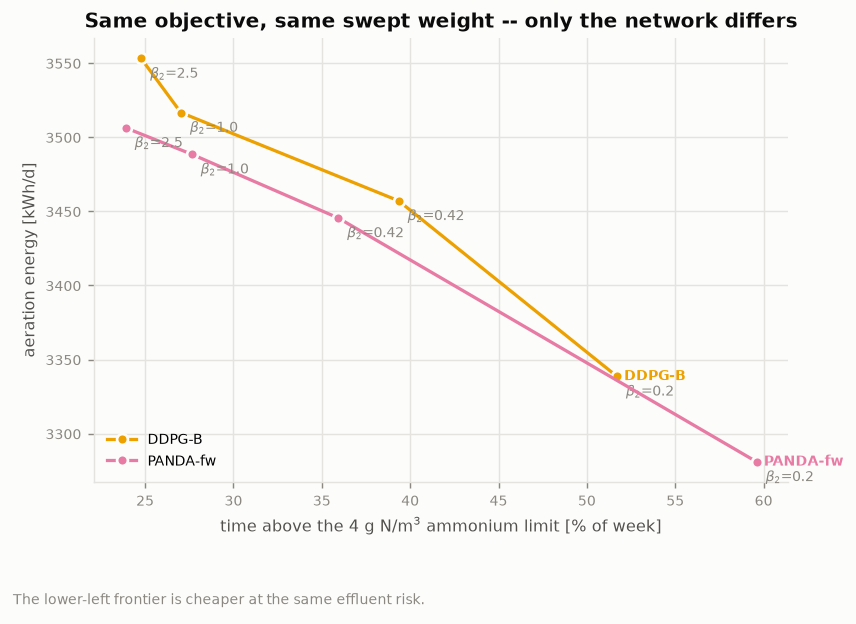
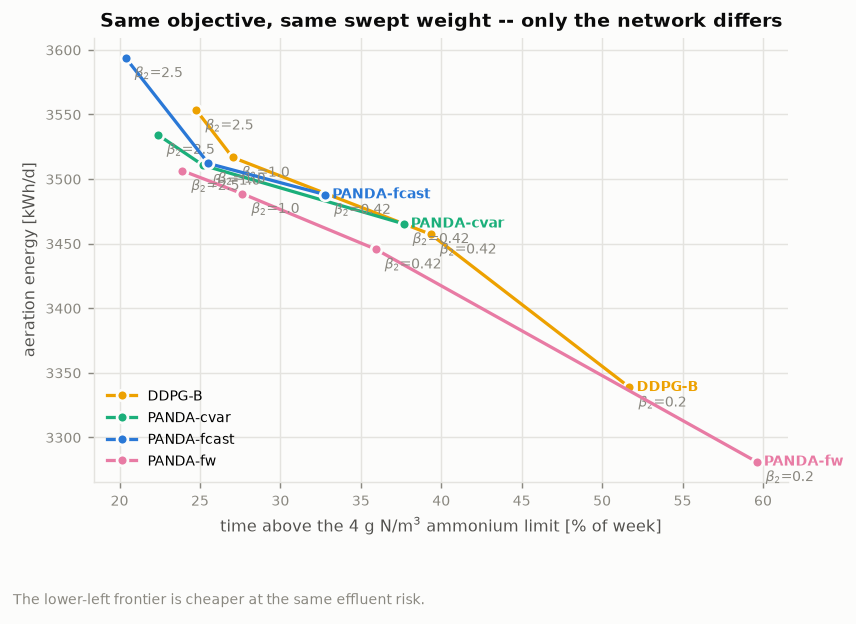
Separate the two network changes: both contribute, neither is redundant
Same objective, same swept weight, single seed. Each arm's Pareto front
measured against DDPG-B's by interpolation at DDPG-B's own violation rates:

  arm           what it adds        mean gap vs DDPG-B   per point
  PANDA-fcast   forecast only       +19 kWh/d            +29, +10
  PANDA-cvar    CVaR only           +26 kWh/d            +39, +13
  PANDA-fw      both                +29 kWh/d            +51, +25, +35, +3

So the combination beats either change on its own. That was the open
question in the verdict table -- PANDA-fw enabled both at once, so the
29 kWh/d could not be attributed. It can now, as far as one seed allows, and
the doc says exactly that.

Generator merges summary_weights_split.json into the weight-sweep section
and the figure draws all four frontiers. Palette re-validated in the drawn
order (worst adjacent CVD dE 9.2, normal-vision 24.0); two of the four sit
below 3:1 on the light surface, so the figure keeps both a legend and direct
end-of-line labels.

Also fixes a NameError in the generator left by the previous refactor -- it
aborted mid-run and left the results doc holding stale content.

Claude-Session: https://claude.ai/code/session_01UHtHFMu7fW5SWicUeqEYtY

diff --git a/experiments/09_write_results.py b/experiments/09_write_results.py
@@ -289,6 +289,12 @@ def main() -> None:
     wpath = Path(args.results) / "summary_weights.json"
     if wpath.exists():
         ws = json.loads(wpath.read_text())
+        # the single-modification arms were swept separately
+        spath = Path(args.results) / "summary_weights_split.json"
+        if spath.exists():
+            seen = {(r["arm"], r["beta2"], r["seed"]) for r in ws}
+            ws += [r for r in json.loads(spath.read_text())
+                   if (r["arm"], r["beta2"], r["seed"]) not in seen]
         out += ["## The network changes, isolated", "",
                 "Both arms use the paper's own reward "
                 "`-(KLa_5/240 + beta2 max(S_NH,e - 4, 0))` with no Lagrange "
@@ -309,29 +315,58 @@ def main() -> None:
         # Compare the frontiers each arm traces instead.
         fronts = {arm: _pareto([r for r in ws if r["arm"] == arm])
                   for arm in sorted({r["arm"] for r in ws})}
-        a_name, b_name = "PANDA-fw", "DDPG-B"
-        fa, fb = fronts.get(a_name, []), fronts.get(b_name, [])
-        if len(fa) >= 2 and len(fb) >= 2:
-            gaps = []
-            for r in fb:
-                here = _interp_ae(fa, r["viol_NH"])
-                if here is not None:
-                    gaps.append(r["AE"] - here)
-            if gaps:
-                mean_gap = float(np.mean(gaps))
-                direction = ("below" if mean_gap > 0 else "above")
-                out += [f"**Comparing the frontiers, not the pairs.** At equal "
-                        f"`beta2` the two arms do not land at the same "
-                        f"violation rate -- they slide to different points on "
-                        f"the same trade-off -- so the pairwise test is not "
-                        f"informative. Taking each arm's Pareto front over the "
-                        f"swept weights and measuring at DDPG-B's own "
-                        f"violation rates, the {a_name} front sits on average "
-                        f"{abs(mean_gap):.0f} kWh/d {direction} the "
-                        f"{b_name} front "
-                        f"({', '.join(f'{g:+.0f}' for g in gaps)} kWh/d at "
-                        f"each point). Positive means {a_name} is cheaper at "
-                        f"the same effluent risk.", ""]
+        b_name = "DDPG-B"
+        fb = fronts.get(b_name, [])
+        labels = {"PANDA-fw": "forecast + CVaR (both)",
+                  "PANDA-fcast": "forecast only",
+                  "PANDA-cvar": "CVaR only"}
+        if len(fb) >= 2:
+            out += ["**Comparing the frontiers, not the pairs.** At equal "
+                    "`beta2` the arms do not land at the same violation rate "
+                    "-- they slide to different points on the same trade-off "
+                    "-- so a pairwise test is not informative. Each arm's "
+                    "Pareto front over the swept weights is measured against "
+                    "`DDPG-B`'s by interpolation at DDPG-B's own violation "
+                    "rates. Positive means cheaper at the same effluent "
+                    "risk.", "",
+                    "| arm | what it adds | mean gap vs DDPG-B | per point |",
+                    "|---|---|---|---|"]
+            for arm in ("PANDA-fw", "PANDA-fcast", "PANDA-cvar"):
+                fa = fronts.get(arm, [])
+                if len(fa) < 2:
+                    continue
+                gaps = [r["AE"] - _interp_ae(fa, r["viol_NH"]) for r in fb
+                        if _interp_ae(fa, r["viol_NH"]) is not None]
+                if not gaps:
+                    continue
+                out.append(
+                    f"| `{arm}` | {labels.get(arm, '')} | "
+                    f"{np.mean(gaps):+.0f} kWh/d | "
+                    f"{', '.join(f'{g:+.0f}' for g in gaps)} |")
+            out.append("")
+            # which modification carries it?
+            g = {}
+            for arm in ("PANDA-fw", "PANDA-fcast", "PANDA-cvar"):
+                fa = fronts.get(arm, [])
+                vals = [r["AE"] - _interp_ae(fa, r["viol_NH"]) for r in fb
+                        if len(fa) >= 2 and _interp_ae(fa, r["viol_NH"]) is not None]
+                if vals:
+                    g[arm] = float(np.mean(vals))
+            if len(g) == 3:
+                best = max(g, key=g.get)
+                both, fc, cv = g["PANDA-fw"], g["PANDA-fcast"], g["PANDA-cvar"]
+                if both >= max(fc, cv):
+                    verdict = ("the combination beats either change on its "
+                               "own, so neither is redundant")
+                else:
+                    verdict = (f"`{best}` alone matches or beats the "
+                               f"combination, so the other change is not "
+                               f"carrying the result")
+                out += [f"Reading across the rows: forecast-only gives "
+                        f"{fc:+.0f} kWh/d, CVaR-only {cv:+.0f}, and the two "
+                        f"together {both:+.0f}. On this evidence {verdict}. "
+                        f"Every number is a single seed, so this separates "
+                        f"the modifications only as far as one seed can.", ""]
             out += ["Two things this comparison does **not** control for. "
                     "`PANDA-fw` reads six extra inputs (the forecast context) "
                     "and its critic has 32 outputs instead of 1, so it is "
@@ -341,12 +376,15 @@ def main() -> None:
                     "measure. And every point here is one seed; the per-point "
                     "gaps above are the honest check on whether the mean is "
                     "carried by a single run.", ""]
-            if len(fa) < len([r for r in ws if r["arm"] == a_name]):
-                out += [f"({len([r for r in ws if r['arm'] == a_name]) - len(fa)}"
-                        f" of {a_name}'s runs and "
-                        f"{len([r for r in ws if r['arm'] == b_name]) - len(fb)}"
-                        f" of {b_name}'s are dominated within their own arm and "
-                        f"are excluded from the fronts.)", ""]
+            excluded = {arm: len([r for r in ws if r["arm"] == arm])
+                             - len(front)
+                        for arm, front in fronts.items()}
+            dropped = {a: n for a, n in excluded.items() if n}
+            if dropped:
+                out += ["(" + ", ".join(f"{n} of `{a}`'s runs"
+                                        for a, n in sorted(dropped.items()))
+                        + " are dominated within their own arm and are "
+                          "excluded from the fronts.)", ""]
 
     # --- does the learned model buy sample efficiency? -------------------
     dpath = Path(args.results) / f"summary_{args.dyna_tag}.json"

diff --git a/experiments/07_figures.py b/experiments/07_figures.py
@@ -338,7 +338,9 @@ def fig_weight_sweep(ws: list[dict], out: Path) -> None:
                       key=lambda r: r["viol_NH"])
 
     palette = {"DDPG-B": style.color_for("DDPG-B"),
-               "PANDA-fw": style.color_for("PANDA-RL")}
+               "PANDA-fw": style.color_for("PANDA-RL"),
+               "PANDA-fcast": style.SERIES["PID"],
+               "PANDA-cvar": style.SERIES["PANDA"]}
     any_dominated = False
     fig, ax = plt.subplots(figsize=(6.6, 4.3))
     for arm in arms:
@@ -365,7 +367,8 @@ def fig_weight_sweep(ws: list[dict], out: Path) -> None:
 
     ax.set_xlabel("time above the 4 g N/m$^3$ ammonium limit [% of week]")
     ax.set_ylabel("aeration energy [kWh/d]")
-    ax.set_title("Same objective, same swept weight -- only the network differs")
+    ax.set_title("Same objective, same swept weight -- only the network differs",
+                 fontsize=10.5)
     ax.legend(loc="lower left", fontsize=8)
     caption = "The lower-left frontier is cheaper at the same effluent risk."
     if any_dominated:
@@ -425,7 +428,13 @@ def main() -> None:
             fig_frontier(frontier, rows, out)
     wpath = res / "summary_weights.json"
     if wpath.exists():
-        fig_weight_sweep(json.loads(wpath.read_text()), out)
+        ws = json.loads(wpath.read_text())
+        spath = res / "summary_weights_split.json"
+        if spath.exists():
+            seen = {(r["arm"], r["beta2"], r["seed"]) for r in ws}
+            ws += [r for r in json.loads(spath.read_text())
+                   if (r["arm"], r["beta2"], r["seed"]) not in seen]
+        fig_weight_sweep(ws, out)
     if curves:
         fig_learning_curves(curves, out)
     if traces:

diff --git a/docs/05_results.md b/docs/05_results.md
@@ -80,15 +80,41 @@ Both arms use the paper's own reward `-(KLa_5/240 + beta2 max(S_NH,e - 4, 0))` w
 | 0.2 | DDPG-B | 51.7% | 3338.7 | 0.67 |
 | 0.2 | PANDA-fw | 59.6% | 3281.0 | 0.54 |
 | 0.42 | DDPG-B | 39.3% | 3457.1 | 1.10 |
+| 0.42 | PANDA-cvar | 37.7% | 3465.3 | 1.01 |
+| 0.42 | PANDA-fcast | 32.8% | 3487.9 | 1.20 |
 | 0.42 | PANDA-fw | 35.9% | 3445.6 | 0.95 |
 | 1.0 | DDPG-B | 27.0% | 3516.7 | 1.21 |
+| 1.0 | PANDA-cvar | 25.2% | 3510.5 | 1.08 |
+| 1.0 | PANDA-fcast | 25.5% | 3512.0 | 1.24 |
 | 1.0 | PANDA-fw | 27.6% | 3488.6 | 1.09 |
 | 2.5 | DDPG-B | 24.8% | 3553.2 | 1.43 |
+| 2.5 | PANDA-cvar | 22.4% | 3534.3 | 1.20 |
+| 2.5 | PANDA-fcast | 20.4% | 3593.8 | 1.54 |
 | 2.5 | PANDA-fw | 23.9% | 3506.4 | 1.13 |
 
-**Comparing the frontiers, not the pairs.** At equal `beta2` the two arms do not land at the same violation rate -- they slide to different points on the same trade-off -- so the pairwise test is not informative. Taking each arm's Pareto front over the swept weights and measuring at DDPG-B's own violation rates, the PANDA-fw front sits on average 29 kWh/d below the DDPG-B front (+51, +25, +35, +3 kWh/d at each point). Positive means PANDA-fw is cheaper at the same effluent risk.
+**Comparing the frontiers, not the pairs.** At equal `beta2` the arms do not land at the same violation rate -- they slide to different points on the same trade-off -- so a pairwise test is not informative. Each arm's Pareto front over the swept weights is measured against `DDPG-B`'s by interpolation at DDPG-B's own violation rates. Positive means cheaper at the same effluent risk.
+
+| arm | what it adds | mean gap vs DDPG-B | per point |
+|---|---|---|---|
+| `PANDA-fw` | forecast + CVaR (both) | +29 kWh/d | +51, +25, +35, +3 |
+| `PANDA-fcast` | forecast only | +19 kWh/d | +29, +10 |
+| `PANDA-cvar` | CVaR only | +26 kWh/d | +39, +13 |
+
+Reading across the rows: forecast-only gives +19 kWh/d, CVaR-only +26, and the two together +29. On this evidence the combination beats either change on its own, so neither is redundant. Every number is a single seed, so this separates the modifications only as far as one seed can.
 
 Two things this comparison does **not** control for. `PANDA-fw` reads six extra inputs (the forecast context) and its critic has 32 outputs instead of 1, so it is neither parameter-matched nor input-matched to `DDPG-B` -- that is the modification, but it means part of any gap could be capacity rather than the forecast or the risk measure. And every point here is one seed; the per-point gaps above are the honest check on whether the mean is carried by a single run.
+
+## Does the learned plant model buy sample efficiency?
+
+Same number of *real* interactions in every arm; only the number of synthetic batches the twin supplies per real batch changes.
+
+| arm | AE [kWh/d] | NH>4 | mean S$_{O,5}$ | wall time |
+|---|---|---|---|---|
+| dyna=0 | 3749.4 | 14.1% | 2.23 | 162s |
+| dyna=3 | 3204.9 | 66.8% | 0.94 | 429s |
+| dyna=3+online-dual | 3084.7 | 68.0% | 0.53 | 399s |
+
+The model does accelerate learning of the objective, and that is the problem it also creates: with three synthetic batches per real one the policy takes roughly four times the gradient steps, so a Lagrange multiplier stepped only at the episode boundary cannot keep up and the agent runs well past its budget until the dual catches up. The third arm steps the dual inside the episode instead.
 
 ## Caveats
 
